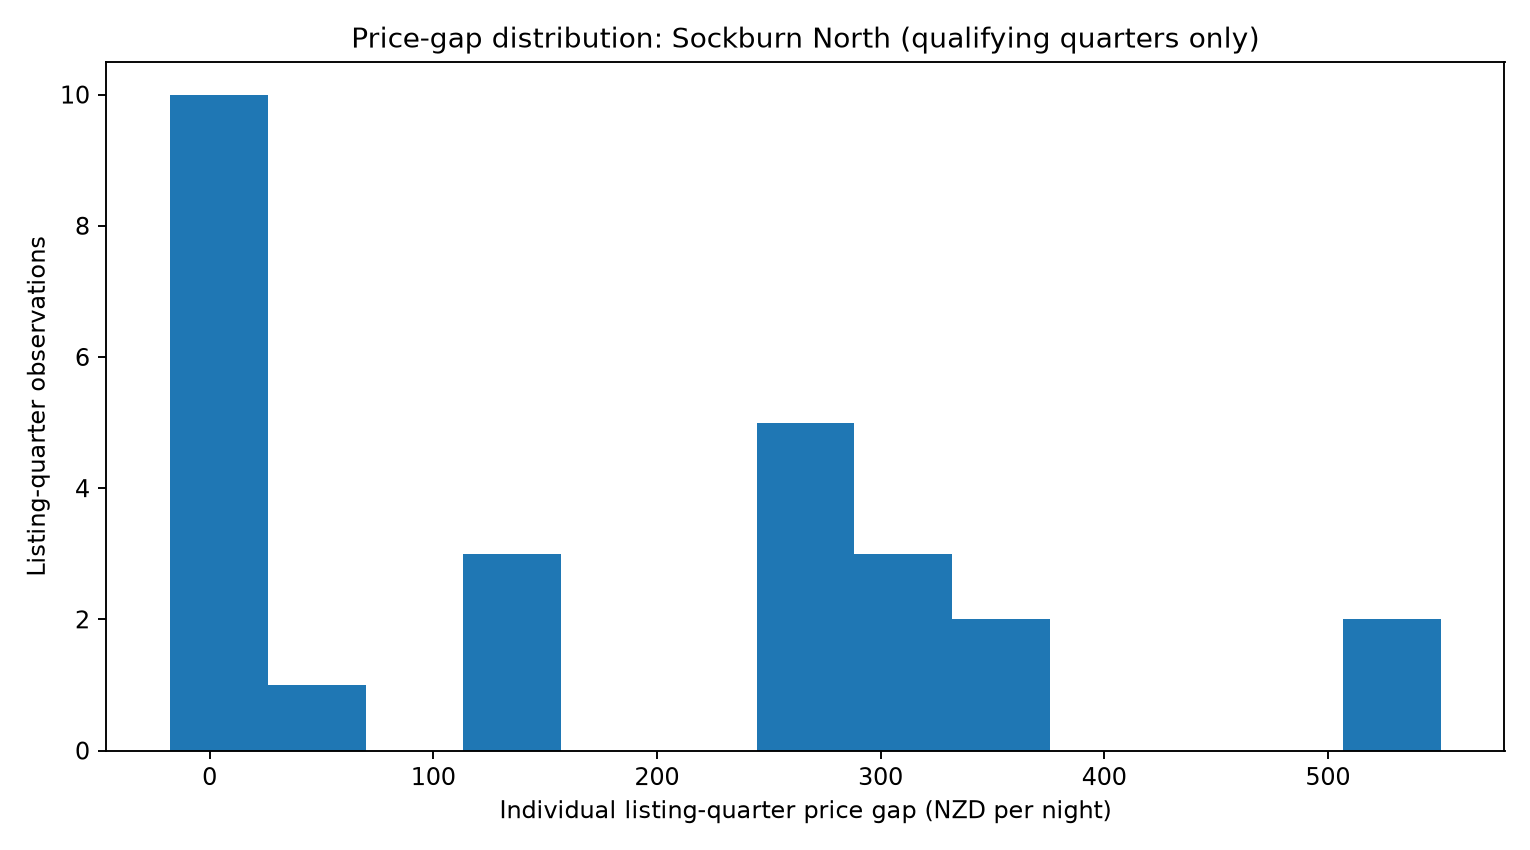
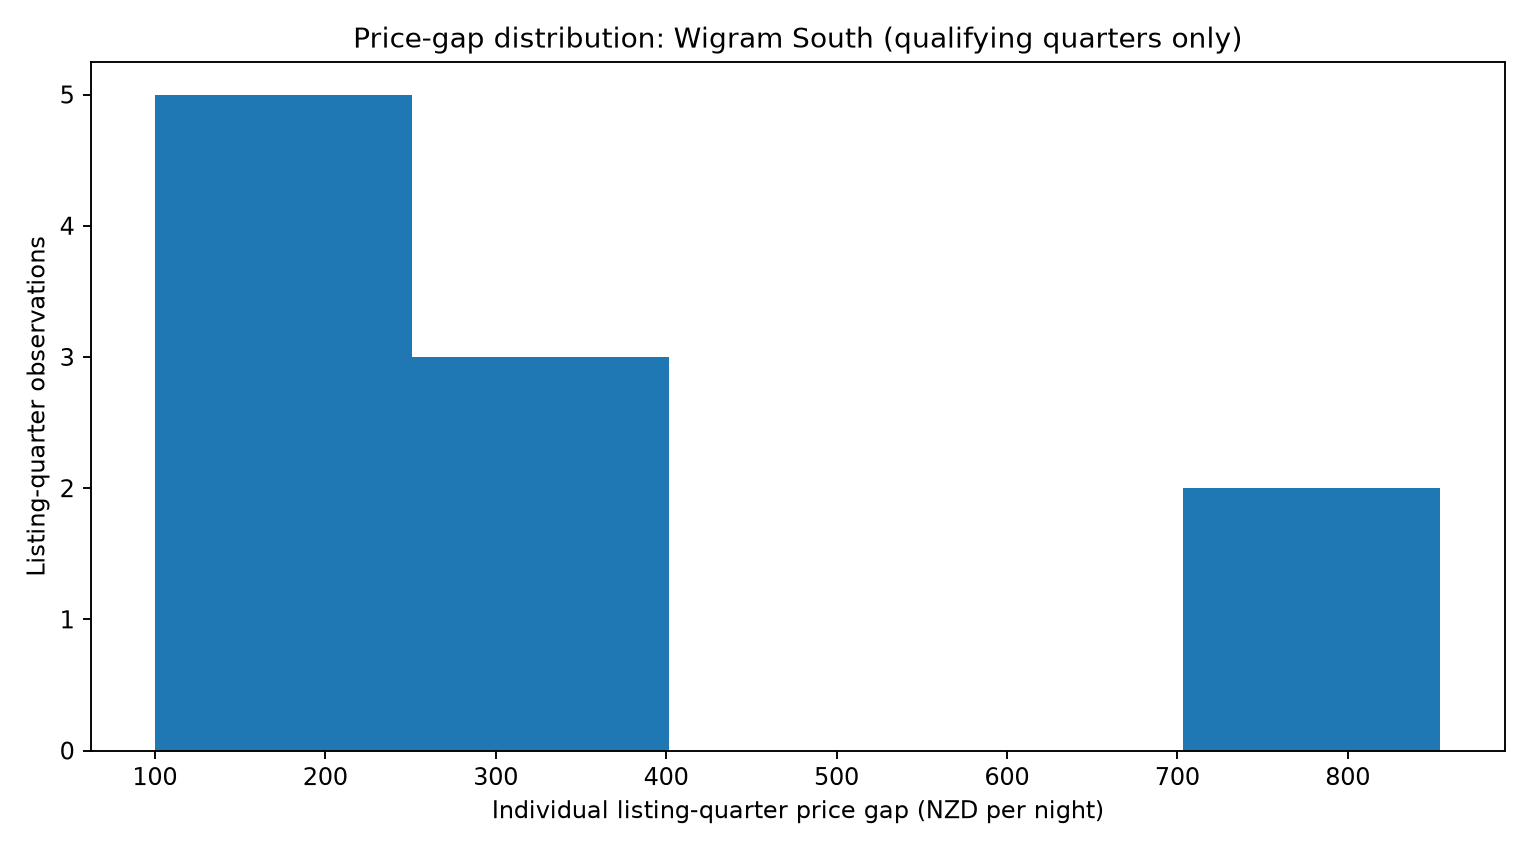
save

diff --git a/Code/compare_airbnb_tenancy.py b/Code/compare_airbnb_tenancy.py
@@ -2,10 +2,13 @@
 # Compare Airbnb listings vs Active Rental Bonds based on SA2 location (from StatsNZ). The output is a CSV file saved to the processed folder, and a bar chart saved to out/plots.
 # The output is a comparison csv saved to the processed folder, and a figure saved to the plots folder
 # ==========================================================
-
+# Add project root to Python path
+import sys
+from pathlib import Path
+sys.path.append(str(Path(__file__).resolve().parents[1]))
+from paths import data_path
 import pandas as pd
 import matplotlib.pyplot as plt
-from paths import data_path
 from pathlib import Path
 
 

diff --git a/Code/price_gap.py b/Code/price_gap.py
@@ -178,7 +178,7 @@ def make_charts(matched, aq, rank, output: Path):
 def main():
     parser = ArgumentParser(description=__doc__)
     parser.add_argument("--airbnb", type=Path, default=Path("Data/processed/airbnb_with_sa2.csv"))
-    parser.add_argument("--tenancy", type=Path, default=Path("Data/processed/tenancy_cleaned_oct25_jun26.csv"))
+    parser.add_argument("--tenancy", type=Path, default=Path("Data/processed/tenancy_cleaned.csv"))
     parser.add_argument("--out", type=Path, default=Path("out/plots"))
     args = parser.parse_args()
 
